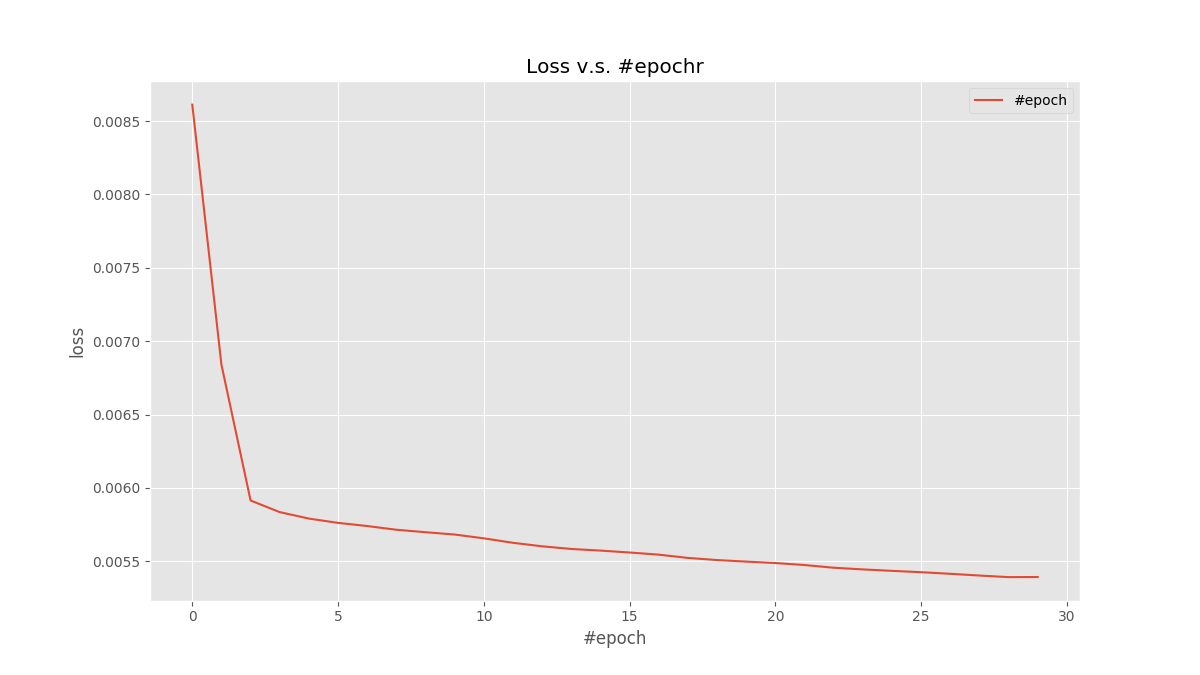
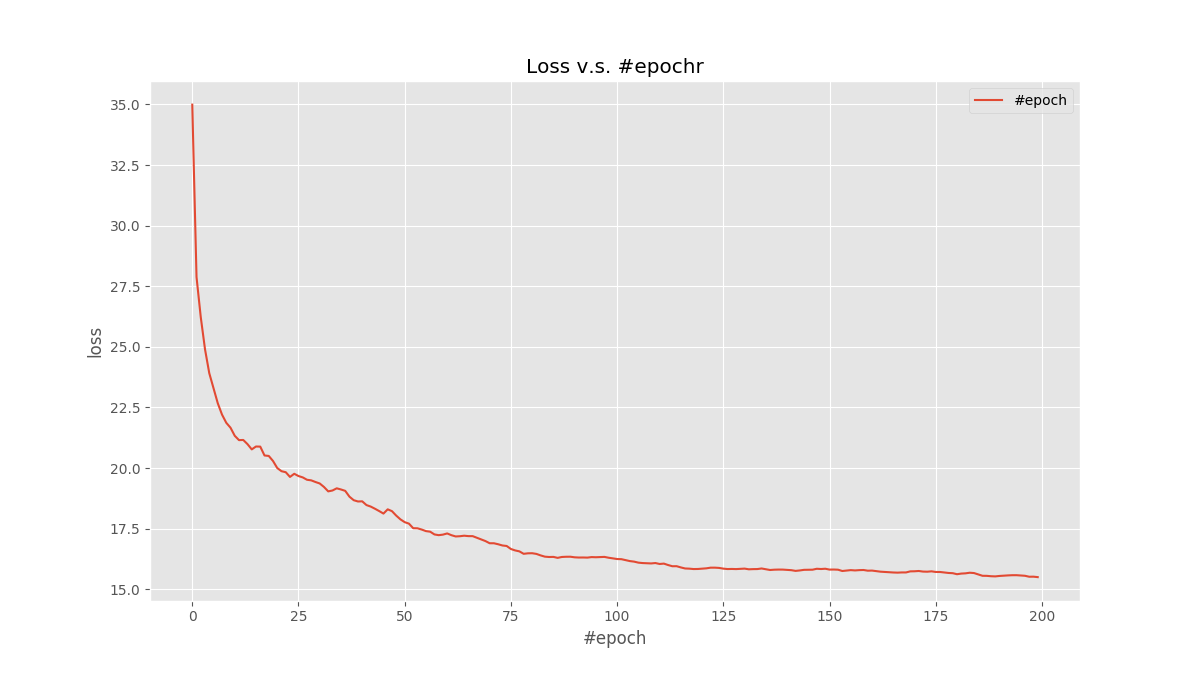
finally works

diff --git a/tsne.py b/tsne.py
@@ -7,6 +7,8 @@ University of Edinburgh, 2017
 
 from __future__ import print_function
 
+import math
+
 import torch
 import torch.optim as optim
 from torch.autograd import Variable
@@ -16,94 +18,219 @@ from helper import *
 from rbm import *
 
 def preprocess_img(xs):
+    """
+    Process grey image matrix
+    by normalizing entries to between 0 and 1.
+    """
 
     x_num, x_w, x_h = xs.size()
     xs = xs.view(x_num, x_w * x_h)
     xs = xs.float()
-    xs = xs / 255
-    # xs = (xs - 0.5) * 2
+    xs = xs / 255   # entries was between 0 and 255
 
     return xs
 
 def pairwise(xs):
+    """
+    Computer the pairwise distances.
+
+    Ref: https://lvdmaaten.github.io/tsne/
+    """
 
     x_num, x_dim = xs.size()
-    x1 = xs.unsqueeze(0).expand(x_num, x_num, x_dim)
-    x2 = xs.unsqueeze(1).expand(x_num, x_num, x_dim)
-    pws = ((x1 - x2) ** 2.0).sum(2)
+
+    x_sum = (xs ** 2.0).sum(1).view(x_num, 1).expand(x_num, x_num)
+    pws = x_sum + x_sum.t() - 2 * torch.matmul(xs, xs.t())
 
     return pws
 
 def entropy(ps):
+    """
+    Compute the entropy of given probablity distribution.
+    """
 
     return -(ps * torch.log(ps) * 1.4426950408889634).sum()
 
 def perplexity(ps):
+    """
+    Compute the perplexity of given probablity distribution.
+    """
 
     return 2 ** entropy(ps)
 
-def pairwise2gauss(pws, ppl, tol=1e-3):
+def entropy_stable(ps, pws, tau):
+    """
+    Stable version of entropy computation for P in the t-SNE context.
+    """
 
+    ps_sum = ps.sum()
+
+    return math.log(ps_sum, 2) + tau * (pws * ps).sum() / ps_sum
+
+def pairwise2gauss(pws, ppl_target, tol=1e-3):
+    """
+    Compute P.
+    """
+
+    # Convert target perplexity to entropy
+    entropy_target = math.log(ppl_target, 2)
+
+    # Inialize P and precisions for each point
     x_num, _ = pws.size()
-    mask_without_diag = (1 - torch.diag(torch.zeros(x_num))).cuda()
-    sigs = torch.ones(x_num).cuda()
+    pjgi = torch.zeros(x_num, x_num).cuda()
+    taus = torch.ones(x_num).cuda()
 
-    pws_tmp = torch.exp(-pws / (2 * sigs**2).repeat(x_num, 1)) * mask_without_diag
+    for j in range(x_num):
 
-    pjgi = pws_tmp / pws_tmp.sum(0).view(x_num, 1).repeat(1, x_num)
-    # pigj = pws_tmp / pws_tmp.sum(1).view(1, x_num).repeat(x_num, 1)
+        done = False    # flag to implement a do-while loop
+        n_iter = 0      # maximum iteration used to find precision
+
+        # Upper and lower bound for binary search
+        tau_min, tau_max = None, None
+
+        # Perform binary search until 
+        # - the target perplexity is found, or
+        # - the maximum iteration is reach
+        while not done and n_iter <= 50:
+
+            n_iter += 1
+
+            # Fetch distances besides j
+            if j == 0:
+                
+                pws_j = pws[1:,j]
+
+            elif j == x_num - 1:
+
+                pws_j = pws[:x_num,j]
+
+            else:
+
+                pws_j = torch.cat([pws[:j,j], pws[j+1:,j]])
+            
+            # Compute P
+            pjgi_j = torch.exp(-pws_j * taus[j])
+
+            # Prevent P simply being all zeros; if this
+            # happens, it means precision is too large - 
+            # then we decrease it by diving by 2
+            while pjgi_j.sum() == 0:
+
+                taus[j] /= 2
+                pjgi_j = torch.exp(-pws_j * taus[j])
+                print("[pairwise2gauss] tau is too large; set to %f" % (taus[j]))
+
+            # Normalize P
+            pjgi_j = pjgi_j / pjgi_j.sum()
+
+            # Compute entropy and difference between target
+            entropy = entropy_stable(pjgi_j, pws_j, taus[j])
+            entropy_diff = entropy - entropy_target
+
+            # Binary search for precision
+            if abs(entropy_diff) <= tol:
+
+                done = True
+
+            elif entropy_diff < 0:
+
+                tau_min = taus[j]
+
+                if tau_max:
+
+                    taus[j] = (taus[j] + tau_max) / 2
+                    tau_max = taus[j]
+
+                else:
+
+                    taus[j] *= 2
+
+            else:
+
+                tau_max = taus[j]
+
+                if tau_min:
+
+                    taus[j] = (taus[j] + tau_min) / 2
+                    tau_min = taus[j]
+
+                else:
+
+                    taus[j] /= 2
+
+        # Copy row-wise P (pjgi_j) to the corresponding
+        # place in the intialized matrix P (pjgi)
+        if j > 0:
+
+            pjgi[:j,j] = pjgi_j[:j]
+    
+        if j < x_num - 1:
+
+            pjgi[j+1:,j] = pjgi_j[j:]
+
+    # Computer pij using the symmetric property of conditional probablity of P.
     pigj = pjgi.t()
-
     pij = (pjgi + pigj) / (2 * x_num)
 
     return pij
 
 def pairwise2t(pws, alpha=1):
+    """
+    Computer Q.
+    """
 
-    pws_tmp = (1 + pws / alpha) ** (-(alpha + 1) / 2)
+    n_row, _ = pws.size()
+    mask_without_diag = Variable(1 - torch.diag(torch.zeros(n_row))).cuda()
 
+    pws_tmp = (1 + pws * mask_without_diag / alpha) ** (-(alpha + 1) / 2)
     qij = pws_tmp / pws_tmp.sum()
 
     return qij
 
+def KL_stable(P, Q):
+    """
+    Stable implementation of KL divergence.
+    """
+
+    return torch.sum(P * torch.log((P + 1e-9) / (Q + 1e-9)))
+
 class ptSNE:
+    """
+    Paramtric t-Distributed Stochastic Neighbour Embedding.
+    """
 
     def __init__(self, encoder):
 
         self.encoder = encoder
 
-    def KL_without_diag(self, P, Q):
-
-        n_row, _ = P.size()
-        mask_without_diag = Variable(1 - torch.diag(torch.zeros(n_row))).cuda()
-        kl = torch.sum(P * torch.log(P / Q) * mask_without_diag)
-        
-        return kl
-
     def train(self, xs, batch_size, epoch_num, lr, ppl):
 
+        # Send data and encoder to CUDA
         xs = xs.cuda()
         self.encoder = self.encoder.cuda()
 
+        # Initialization
         x_num, x_dim = xs.size()
         
         batches = map(lambda s: (s, s + batch_size) if s + batch_size <= x_num else (s, x_num),
             torch.arange(0, x_num, batch_size).int())
         batch_num = len(batches)
 
+        # Compute P for each batch
         Ps_l = []
 
         for batch_s, batch_e in batches:
             
             xs_pairwise = pairwise(xs[batch_s:batch_e, :])
-            Ps_l.append(pairwise2gauss(xs_pairwise, ppl=ppl))
+            Ps_l.append(pairwise2gauss(xs_pairwise, ppl))
 
+        # Initialize the optimizer
         # optimizer = optim.SGD(self.encoder.parameters(), lr=lr)
         optimizer = optim.Adam(
             self.encoder.parameters(), 
-            lr=lr, betas=(0.9, 0.999), eps=1e-08, weight_decay=0)
-        # criterion = torch.nn.KLDivLoss(size_average=False)
+            lr=lr, betas=(0.9, 0.999), eps=1e-9, weight_decay=0)
 
+        # Training
         log = dict()
         log["cost"] = []
 
@@ -125,9 +252,8 @@ class ptSNE:
 
                 Q = pairwise2t(y_pairwise)
 
-                # loss = criterion(torch.log(Q), P)
-                loss = self.KL_without_diag(P, Q)
-                
+                loss = KL_stable(P, Q)
+
                 loss.backward()
 
                 optimizer.step()
@@ -141,16 +267,20 @@ class ptSNE:
         fig.savefig("cost.png")
 
     def pre_train(self, xs, batch_size, epoch_num):
+        """
+        Layer-wise pre-training for the encoder using RBMs.
+        """
 
+        # Initialization
         x_num, _ = xs.size()
 
-        # Create batch idcs
         batches = map(lambda s: (s, s + batch_size) if s + batch_size <= x_num else (s, x_num),
             torch.arange(0, x_num, batch_size).int())
         batch_num = len(batches)
-        log_skip = int(batch_num / 10)
 
-        # Send xs to GPU
+        log_skip = int(batch_num / (3 + 1)) + 1
+
+        # Send data to GPU
         xs = xs.cuda()
 
         # First RBM
@@ -178,6 +308,7 @@ class ptSNE:
 
         h_1 = (rbm_1.p_h_given_v(xs) >= 0.5).float()
 
+        # Second RBM
         rbm_2 = RBMBer(500, 500)
 
         alpha = 0.5
@@ -202,6 +333,7 @@ class ptSNE:
 
         h_2 = (rbm_2.p_h_given_v(h_1) >= 0.5).float()
 
+        # Third RBM
         rbm_3 = RBMBer(500, 2000)
 
         alpha = 0.5
@@ -226,6 +358,7 @@ class ptSNE:
 
         h_3 = (rbm_3.p_h_given_v(h_2) >= 0.5).float()
 
+        # Fourth RBM
         rbm_4 = RBMGaussHid(2000, 2)
 
         alpha = 0.5
@@ -250,11 +383,11 @@ class ptSNE:
 
         state_dict = self.encoder.state_dict()
 
+        # Copy weights from RBM to encoder
         state_dict["1.weight"] = rbm_1.w
         state_dict["2.weight"] = rbm_2.w
         state_dict["3.weight"] = rbm_3.w
         state_dict["4.weight"] = rbm_4.w
-
 
     def apply(self, xs):
         

diff --git a/test.py b/test.py
@@ -48,13 +48,11 @@ Ps = pairwise2gauss(t_pairwise, 30)
 
 print("[tsne.test] done")
 
-print("[tsne.test] testing pairwise2t...")
-
-Qs = pairwise2t(t_pairwise)
-
-print("[tsne.test] done")
-
-exit()
+# print("[tsne.test] testing pairwise2t...")
+# 
+# Qs = pairwise2t(t_pairwise)
+# 
+# print("[tsne.test] done")
 
 print("[tsne.test] testing ptSNE...")
 
@@ -69,8 +67,8 @@ encoder = nn.Sequential(
 
 ptsne = ptSNE(encoder)
 
-ptsne.pre_train(xs, 100, 50)
-ptsne.train(xs, 100, 30, 1e-3, 30)
+ptsne.pre_train(xs, 600, 50)
+ptsne.train(xs, 600, 200, 1e-2, 40)
 
 xs_2d = ptsne.apply(xs)
 

diff --git a/rbm.py b/rbm.py
@@ -20,11 +20,8 @@ class RBMBase:
         self.vis_num = vis_num
         self.hid_num = hid_num
 
-        # Dictionary for storing parameters
-        self.params = dict()
-
         self.w = torch.randn(vis_num, hid_num) * 0.1    # weight matrix
-        self.a = torch.zeros(vis_num) / vis_num         # bias for visiable units
+        self.a = torch.zeros(vis_num)                   # bias for visiable units
         self.b = torch.zeros(hid_num)                   # bias for hidden units
 
         # Corresponding momentums; _v means velocity of
